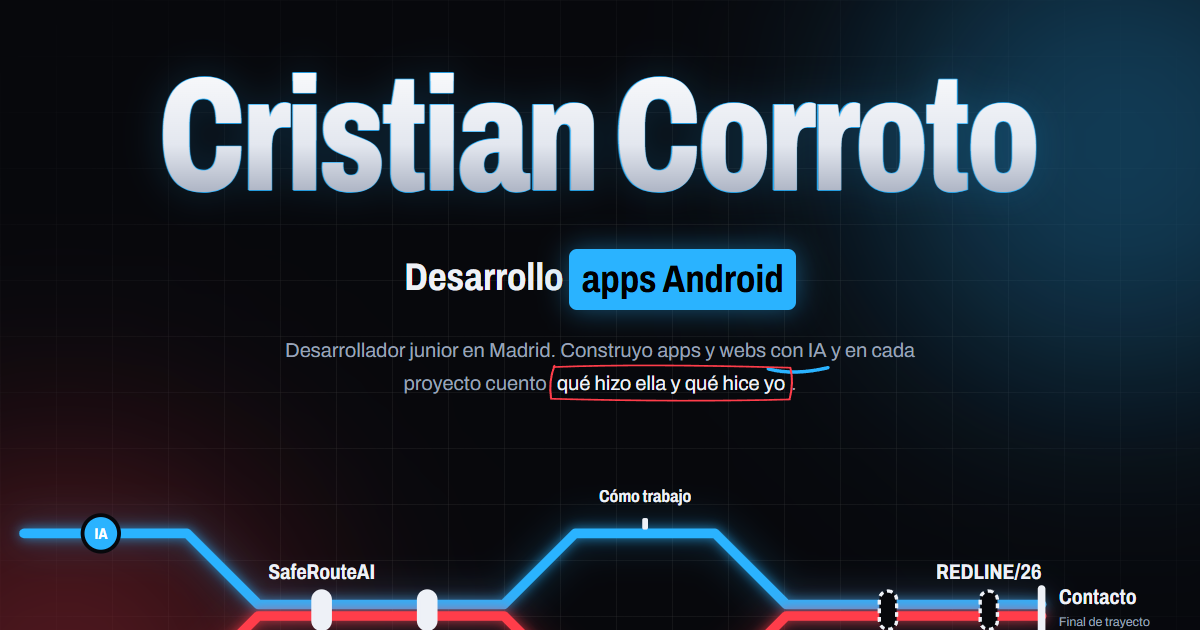
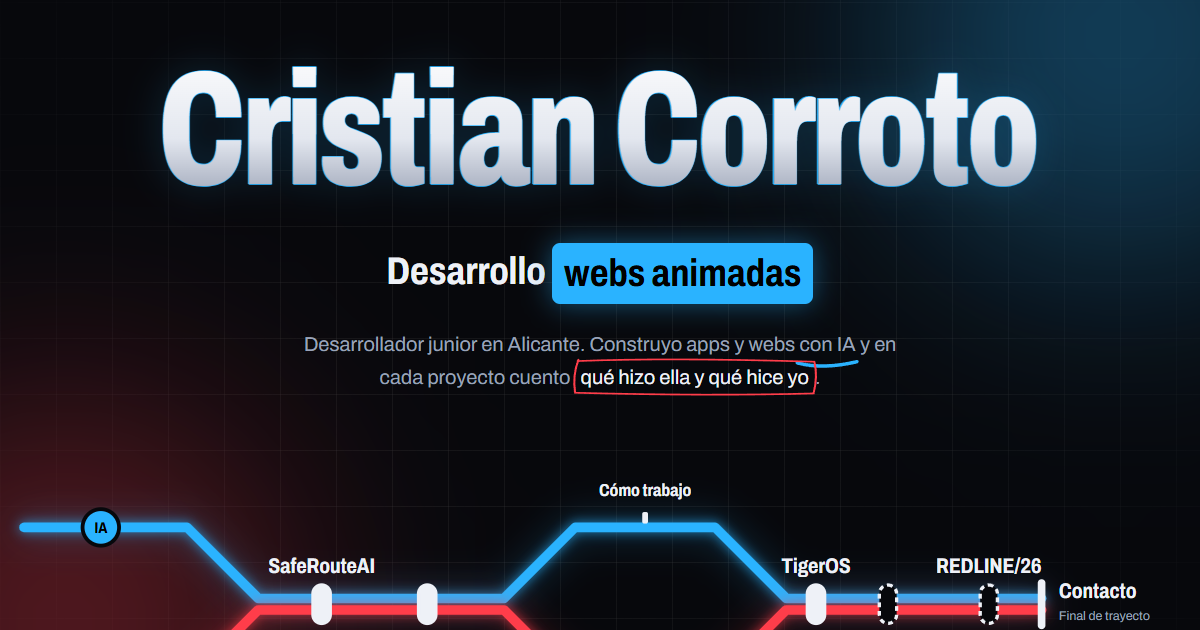
Proyecto TigerOS y portada actualizada

diff --git a/data/proyectos.ts b/data/proyectos.ts
@@ -147,4 +147,35 @@ export const proyectos: Proyecto[] = [
     yo: "Yo decidí qué contar y revisé que cada dato fuera cierto: sin «tiempo real» ni cifras infladas.",
     enlaces: [{ texto: "Ver la web", href: "https://saferouteai-app.netlify.app/" }],
   },
+  {
+    slug: "tigeros",
+    titulo: "TigerOS",
+    tipo: "App de escritorio para Windows",
+    fecha: "2026",
+    resumen:
+      "Aplicación para optimizar Windows 10 y 11 con tres niveles, que apunta cada cambio y mide el rendimiento antes y después.",
+    imagen: "/proyectos/tigeros-portada.webp",
+    encuadre: "captura",
+    pieImagen: "Página Optimizar con el nivel Extremo: cada ajuste dice qué toca y qué se pierde.",
+    estado: "Terminada · en pruebas con más usuarios",
+    estadoCorto: "Terminada",
+    marca: "servicio",
+    objetivo:
+      "Bajar procesos y carga de CPU en Windows para rendir más en juegos, sabiendo en todo momento qué se ha cambiado y pudiendo deshacerlo.",
+    como: [
+      "Aplicación de escritorio en C# con .NET y WPF, distribuida como un único ejecutable portable.",
+      "Tres niveles: Básico, Avanzado y Extremo (pensado para jugar). Antes de aplicar, cada ajuste explica qué toca, qué se pierde y si pide reinicio.",
+      "Antes de cambiar nada guarda el estado anterior, comprueba cada cambio y lo apunta en un historial desde el que se deshace; lo que no tiene vuelta atrás lo avisa antes de aplicar.",
+      "Mide el rendimiento antes y después en el propio PC en lugar de prometer cifras, y tiene más de 700 pruebas automáticas.",
+    ],
+    estadoDetalle: [
+      "Terminada y funcionando en mi PC; ahora la están probando más usuarios.",
+      "Todavía no hay mediciones de FPS en juegos, así que no doy cifras de mejora.",
+      "Sin descarga pública por ahora.",
+    ],
+    tecnologias: ["C#", ".NET", "WPF", "Windows"],
+    ia: "Apoyo intensivo de IA en el código y en la investigación de cada ajuste de Windows.",
+    yo: "Yo decidí qué tenía que hacer y cómo controlar cada cambio, probé cada nivel en mi PC y pedí cambios hasta que nunca quedara duda de qué había tocado la app.",
+    enlaces: [],
+  },
 ];

diff --git a/components/Plano.tsx b/components/Plano.tsx
@@ -36,7 +36,7 @@ const ESCRITORIO: Mapa = {
     [774, 6],
     [1040, 6],
   ],
-  posiciones: [290, 880, 985, 400],
+  posiciones: [290, 880, 985, 400, 805],
   paradas: [
     { u: 627, v: -80, texto: "Cómo trabajo", href: "#ia" },
     { u: 627, v: 80, texto: "Trayectoria", href: "#formacion" },
@@ -61,7 +61,7 @@ const MOVIL: Mapa = {
     [558, 6],
     [920, 6],
   ],
-  posiciones: [230, 680, 790, 330],
+  posiciones: [230, 680, 790, 330, 600],
   paradas: [],
   uFinal: 920,
   uRotulos: 40,

diff --git a/components/Portada.tsx b/components/Portada.tsx
@@ -50,7 +50,7 @@ export default function Portada() {
           animate={{ opacity: 1, y: 0 }}
           transition={t({ duration: 0.6, delay: 1.5, ease: llegada })}
         >
-          Desarrollo <PalabraRotatoria palabras={["apps Android", "webs animadas", "con IA"]} />
+          Desarrollo <PalabraRotatoria palabras={["webs animadas", "apps para Windows", "apps Android", "con IA"]} />
         </motion.p>
 
         <motion.p
